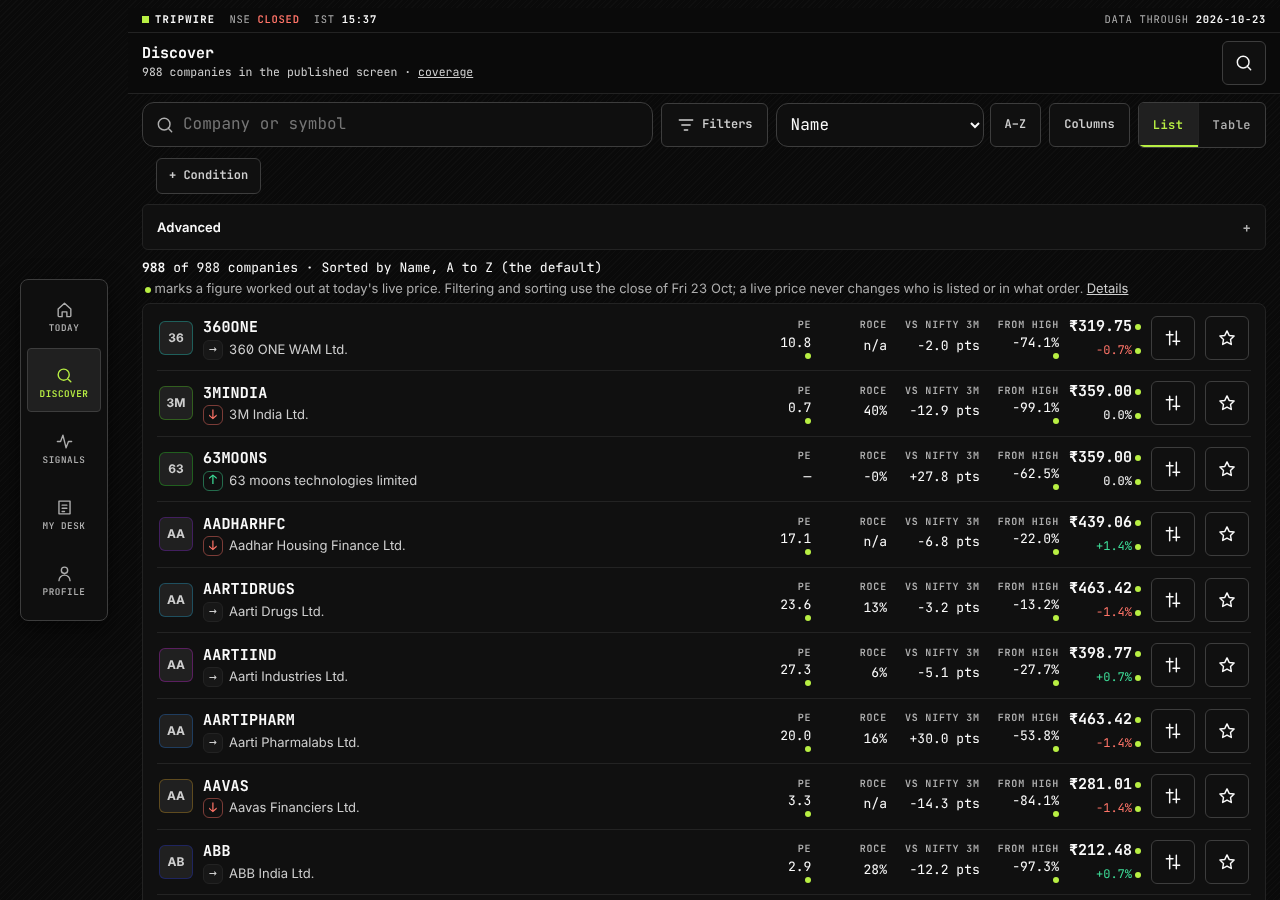
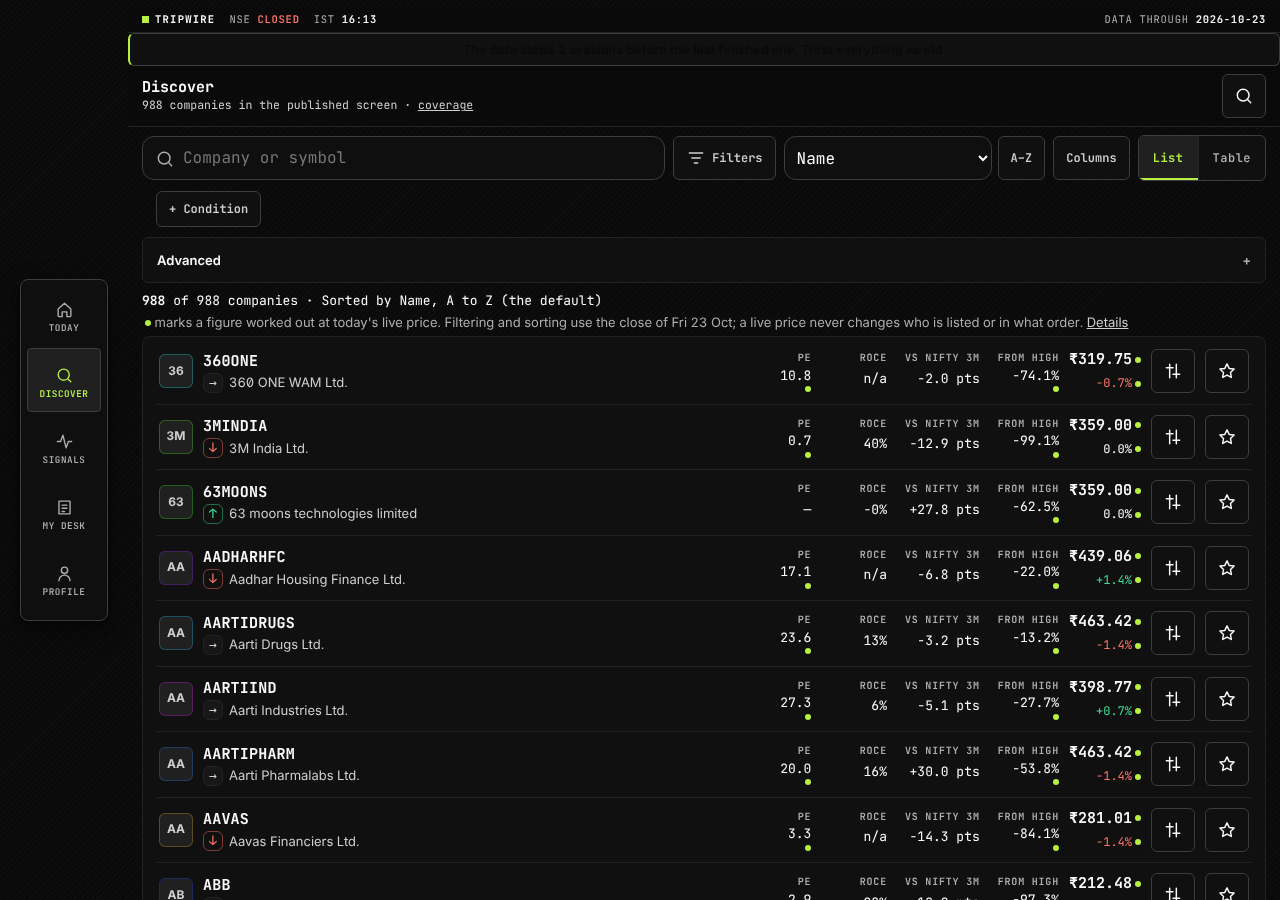
Discover: lens counts only when Advanced is open, sort direction name, after screenshots and heights
Claude-Session: https://claude.ai/code/session_01BZL3qC7Z72FuzTHzAxSxFn

Changed region(s): [[0.0938, 0.0311, 0.9688, 1.0], [0.75, 0.0622, 1.0, 0.2178], [0.5312, 0.1244, 0.6562, 0.1867]]

diff --git a/apps/tripwire/src/screens/discover.tsx b/apps/tripwire/src/screens/discover.tsx
@@ -3,7 +3,7 @@ import { go, isQuiet, replaceHash, setState, useAppState, useLoc, wantsRestore }
 import { useScreen } from '../data.ts';
 import { Icon, Sheet, useUi, Empty } from '../ui.tsx';
 import { FollowButton, Head, Failed, Loading, PageBar, TrendTag } from './common.tsx';
-import { NO_FILTER, describeFilters, TREND_WORD, isFinancialSector, type Filters, type Row } from '../screen.ts';
+import { NO_FILTER, describeFilters, filterRows, TREND_WORD, type Filters, type Row } from '../screen.ts';
 import { saveScreen } from '../store.ts';
 import { livePrice, useQuotes, useWatchQuotes } from '../quotes.ts';
 import { dayWord, initials, inr, pct, tone } from '../fmt.ts';
@@ -85,7 +85,9 @@ export function Discover() {
 
   const toggleSet = <K extends 'trend' | 'quality' | 'momentum' | 'value' | 'sector' | 'tier'>(k: K, v: DiscoverState[K]) => patch({ [k]: st[k] === v ? '' : v } as Partial<DiscoverState>);
   const lensOn = (l: (typeof LENSES)[number]) => (Object.entries(l.f) as [keyof Filters, string][]).every(([k, v]) => (filtersOf(st)[k] ?? '') === v);
-  const counts = useMemo(() => Object.fromEntries(LENSES.map((l) => [l.id, rows.length ? runScreen(rows, { ...DEFAULT_STATE, ...l.f } as DiscoverState).ordered.length : null])) as Record<string, number | null>, [rows]);
+  const [advOpen, setAdvOpen] = useState(false);
+  // the idea cards count their names only once Advanced is open: five filter passes over the screen are not paid on every visit
+  const counts = useMemo(() => Object.fromEntries(LENSES.map((l) => [l.id, rows.length && advOpen ? filterRows(rows, { ...NO_FILTER, ...l.f }).rows.length : null])) as Record<string, number | null>, [rows, advOpen]);
   const applyLens = (l: (typeof LENSES)[number]) => { if (lensOn(l)) patch(Object.fromEntries(Object.keys(l.f).map((k) => [k, ''])) as Partial<DiscoverState>); else patch({ trend: '', momentum: '', value: '', quality: '', ...l.f } as Partial<DiscoverState>); tick(); };
   const togglePick = (sym: string) => { setSt((x) => ({ ...x, pick: x.pick.includes(sym) ? x.pick.filter((s) => s !== sym) : x.pick.length < MAX_PICK ? [...x.pick, sym] : x.pick })); tick(); };
   const blocked = useCallback((m: MetricKey) => (metricOf(m)?.elig && st.sector === FIN ? 'Not defined for the financial sector, and a sector filter is on it: every name here has no figure, so nothing can match.' : null), [st.sector]);
@@ -117,7 +119,7 @@ export function Discover() {
           <optgroup label="Common">{QUICK_SORTS.map((k) => <option key={k} value={k}>{sortName(k)}</option>)}</optgroup>
           <optgroup label="More figures">{METRICS.filter((m) => !QUICK_SORTS.includes(m.id)).map((m) => <option key={m.id} value={m.id}>{m.label}</option>)}</optgroup>
         </select>
-        <button className="chip dir" onClick={() => patch({ sort: { key: st.sort.key, dir: st.sort.dir === 'asc' ? 'desc' : 'asc' } })} aria-label={`Sort direction: ${sortWords(st.sort)}. Tap to reverse.`}>{st.sort.key === 'name' || st.sort.key === 'sym' ? (st.sort.dir === 'asc' ? 'A–Z' : 'Z–A') : st.sort.dir === 'asc' ? '↑ Low' : '↓ High'}</button>
+        <button className="chip dir" onClick={() => patch({ sort: { key: st.sort.key, dir: st.sort.dir === 'asc' ? 'desc' : 'asc' } })}><span aria-hidden="true">{st.sort.key === 'name' || st.sort.key === 'sym' ? (st.sort.dir === 'asc' ? 'A–Z' : 'Z–A') : st.sort.dir === 'asc' ? '↑ Low' : '↓ High'}</span><span className="sr">{`Sort direction: ${sortWords(st.sort)}. Tap to reverse.`}</span></button>
       </div>
       <button className="chip dbtn" onClick={() => setSheet('columns')} aria-haspopup="dialog">Columns</button>
       <Radios label="View" value={st.view} onChange={(v) => patch({ view: v as View }, true)} items={[{ id: 'list', label: 'List' }, { id: 'table', label: 'Table' }]} />
@@ -130,7 +132,7 @@ export function Discover() {
       {hasAnyFilter(st) && <button className="chip" onClick={clearAll}>Clear all</button>}
     </div>
 
-    <details className="adv">
+    <details className="adv" onToggle={(e) => setAdvOpen(e.currentTarget.open)}>
       <summary>Advanced</summary>
       <div className="advbody">
         <div className="strip lenses" role="group" aria-label="Ideas">{LENSES.map((l) => { const on = lensOn(l); const n = counts[l.id];
